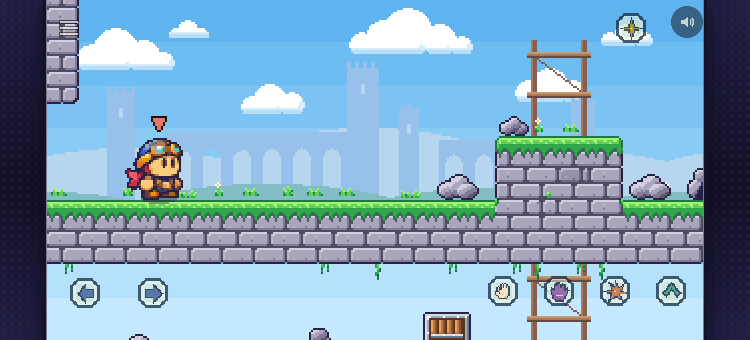
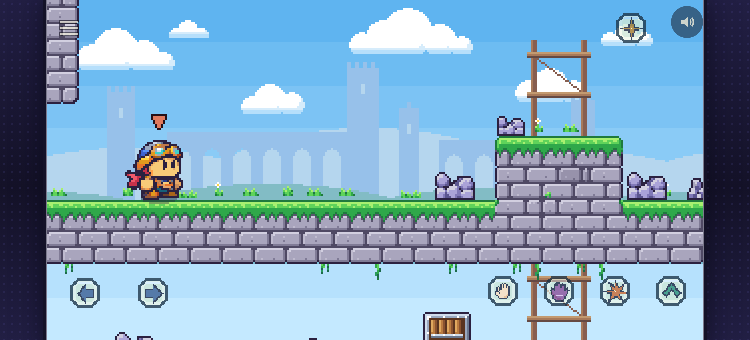
Step 8 look round 3, props: hits and dust from P03's VFX atlas; the camp's fire and flag and the quarry's rocks from P07/P08
The owner: "everything to utilized the approved assets in the drive". fx-hit (the P03 starburst)
and fx-dust (P03 dust puffs); the camp's fire is P08 biome's brazier, its flag P07 platformer's star
banner; the quarry's rock piles P07 platformer's boulder heap. What no sheet covers (fx-clang, the
moods, tents, palisade, rack, scaffolds, tall windows and curtains) is listed with reasons in
tools/art/props/README.md for the Drive's missing-assets list.

Ran: make.py, selfcheck.py (0), npm run build, npm run check: green. Looked at the camp and
quarry-depot in the real game (after-camp-*, after-quarry-depot-* updated); fx sheet at 4x.
Not run: e2e (data only). Measure row: none. Undo by reverting the commit.

Claude-Session: https://claude.ai/code/session_017WiGzJxBqVvizcghgHk5NG

diff --git a/tools/art/props/drive.py b/tools/art/props/drive.py
@@ -196,3 +196,62 @@ def alert_pip(on):
             if c[3]:
                 out.putpixel((x, y), c if c[:3] == INK[:3] else mix(c, col('night', 2), 0.65))
     return out
+
+
+# ---- P03 pixel-art-vfx-and-pickup-atlas ('vfx'): hits, dust, alert rays, the '!' and '?' bubbles
+VFXR = ramps('gold', 'orange', 'red', 'metal', 'skin', 'stone', 'earth', 'purple')
+
+
+def _cuts(boxes, w, h, pal=VFXR, align='center', **kw):
+    return _strip([grab('vfx', b, 0, pal, size=(w, h), **kw) for b in boxes], w, h, align)
+
+
+def fx_hit():
+    """32 x 32 x 5: the P03 starburst growing to full, then breaking into sparks (row 1)."""
+    boxes = [(440, 50, 528, 132), (520, 42, 625, 138), (618, 42, 722, 140), (618, 42, 722, 140), (40, 70, 100, 130)]
+    sizes = [(20, 20), (28, 28), (30, 30), (20, 20), (12, 12)]
+    return _strip([grab('vfx', b, 0, VFXR, size=s) for b, s in zip(boxes, sizes)], 32, 32)
+
+
+def fx_dust():
+    """24 x 24 x 5: the P03 dust puffs (row 4), growing then thinning."""
+    boxes = [(28, 535, 92, 590), (95, 515, 172, 592), (168, 500, 272, 594), (268, 508, 362, 592), (268, 508, 362, 592)]
+    sizes = [(10, 9), (16, 15), (22, 18), (20, 16), (14, 11)]
+    return _strip([grab('vfx', b, 0, VFXR, size=s, largest=False) for b, s in zip(boxes, sizes)], 24, 24, 'bottom')
+
+
+def fx_clang():
+    """32 x 20 x 3: the P03 alert ray fans (row 5), gold, gold, red: rays fanning up over the ringing bell."""
+    boxes = [(52, 638, 152, 722), (182, 632, 282, 722), (328, 628, 432, 722)]
+    return _cuts(boxes, 26, 18, align='bottom')
+
+
+def mood(which):
+    """12 x 12 x 2: the P03 '?' (mood 2) or '!' (mood 3) bubble, a white bubble so no hat or plume swallows it;
+    the second frame is the same bubble a pixel higher (a bob)."""
+    box = (768, 642, 858, 724) if which == 2 else (636, 642, 728, 724)
+    b = grab('vfx', box, 0, ramps('metal', 'red', 'purple', 'blue', 'cloud'), size=(11, 11))
+    a = new(12, 12)
+    paste(a, b, 0, 1)
+    c = new(12, 12)
+    paste(c, b, 0, 0)
+    out = new(24, 12)
+    out.paste(a, (0, 0))
+    out.paste(c, (12, 0))
+    return out
+
+
+# ---- the camp and the quarry: what the plates do show
+def camp_fire():
+    """P08 chibi biome atlas, the lava band: a fire in an iron brazier (no plate has a campfire)."""
+    return grab('biome', (850, 555, 935, 635), 0.26, ramps('orange', 'gold', 'red', 'night', 'stone'))
+
+
+def camp_flag():
+    """P07 platformer tileset: the star banner on its pole."""
+    return grab('platformer', (722, 852, 798, 962), 0.4, ramps('wood', 'gold', 'red', 'stone'))
+
+
+def rocks(big=True):
+    """P07 platformer tileset: the grey boulder heap, and the small stones beside it."""
+    return grab('platformer', (875, 168, 1002, 265), 0.17 if big else 0.12, ramps('stone', 'castle'))

diff --git a/tools/art/props/make.py b/tools/art/props/make.py
@@ -114,14 +114,14 @@ def looks_sheets():
     # ---- fx
     # round 2: hits you feel (handoff-prompts/look2-props.md, section 3.1)
     s = Sheet(160)
-    s.add('fx-hit', r2.fx_hit(), frames=5, fps=18)
+    s.add('fx-hit', dv.fx_hit(), frames=5, fps=18)  # P03 vfx atlas
     s.newrow()
     s.add('fx-slash', r2.fx_slash(), frames=5, fps=20)
     s.newrow()
     s.add('fx-swing-grappler', r2.fx_swing_grappler(), frames=3, fps=16)
     s.add('fx-land', lq.fx_land(), frames=4, fps=15)
     s.newrow()
-    s.add('fx-dust', r2.fx_dust(), frames=5, fps=15)
+    s.add('fx-dust', dv.fx_dust(), frames=5, fps=15)  # P03 vfx atlas
     s.newrow()
     # round 3: a tumble, a dizzy landing, a ringing bell
     s.add('fx-speed', dv.fx_speed(), frames=3, fps=15); s.add('fx-dizzy', dv.fx_dizzy(), frames=4, fps=8)  # P05 brawl
@@ -220,12 +220,12 @@ def decor_sheets():
     s.add('glow-22', r3.glow(22)); s.add('glow-14', r3.glow(14))
     sheets['tavern'] = s
     s = Sheet(256)
-    s.add('tent', r3.tent()); s.add('tent-blue', r3.tent(30, 26, 'blue')); s.add('flag', r3.flagpole())
-    s.add('rack', r3.weapon_rack()); s.add('fire', r3.campfire()); s.add('crate', r3.crate())
+    s.add('tent', r3.tent()); s.add('tent-blue', r3.tent(30, 26, 'blue')); s.add('flag', dv.camp_flag())  # flag: P07
+    s.add('rack', r3.weapon_rack()); s.add('fire', dv.camp_fire()); s.add('crate', r3.crate())  # fire: P08 biome brazier
     s.add('palisade', r3.palisade()); s.add('glow-20', r3.glow(20))
     sheets['camp'] = s
     s = Sheet(160)
-    s.add('rocks', r3.rock_pile()); s.add('rocks-small', r3.rock_pile(14, 9, 1)); s.add('scaffold', r3.scaffold())
+    s.add('rocks', dv.rocks()); s.add('rocks-small', dv.rocks(False)); s.add('scaffold', r3.scaffold())  # rocks: P07 platformer boulders
     s.add('lantern-hung', r3.hang(c['lantern'], 32 - c['lantern'].height)); s.add('glow-14', r3.glow(14))
     sheets['quarry'] = s
     return sheets

diff --git a/tools/art/props/place.py b/tools/art/props/place.py
@@ -13,7 +13,7 @@ from sizes import ROOT, rooms as load_rooms, rect
 T = 16
 
 # round 3: where the light is on each lit piece, from its bottom-left: (glow radius, x, y up from the bottom)
-GLOW3 = {'chandelier-hung': (22, 13, 8), 'lantern-hung': (14, 5, 6), 'fire': (20, 11, 10)}
+GLOW3 = {'chandelier-hung': (22, 13, 8), 'lantern-hung': (14, 5, 6), 'fire': (20, 9, 13)}
 
 
 class Room:
@@ -276,7 +276,7 @@ def outpost(R):
     for tx in range(9, R.w - 2):
         R.add('camp', 'palisade', tx, 10, layer='far', support='wall')
     R.add('camp', 'tent', 10, 10, dx=4)
-    R.add('camp', 'flag', 14, 10, dx=4)
+    R.add('camp', 'flag', 14, 10, dx=-6)
     R.add('camp', 'rack', 15, 10, dx=6)
     R.add('camp', 'fire', 22, 10, dx=4)
     R.add('camp', 'crate', 30, 10)

diff --git a/tools/art/props/srcimport.py b/tools/art/props/srcimport.py
@@ -36,6 +36,8 @@ SHEETS = {
     'brawl': 'p05-hud-powers-cantina-brawl-and-secrets-visual-source-sheets/p05-brawl-hit-ko-respawn-source.png',
     'ui': 'p07-first-playable-npc-enemies-mechanisms-terrain-hud-source/irreverents-pixel-ui-atlas.png',
     'vibrant': 'p07-first-playable-npc-enemies-mechanisms-terrain-hud-source/vibrant-platformer-interactables-sprite-sheet.png',
+    'biome': 'p08-additional-townsfolk-enemies-building-blocks-biomes-source/chibi-pixel-biome-tileset-atlas.png',
+    'platformer': 'p07-first-playable-npc-enemies-mechanisms-terrain-hud-source/pixel-art-platformer-tileset-atlas.png',
     'fantasy': 'p08-additional-townsfolk-enemies-building-blocks-biomes-source/colorful-retro-fantasy-tileset-atlas.png',
 }
 _cache = {}

diff --git a/tools/art/props/README.md b/tools/art/props/README.md
@@ -131,14 +131,22 @@ swoosh; the red and the blue skull badges); `alert-pip`/`-off` from the P07 UI a
 the same cut, dimmed). `srcimport.grab(key=...)` now keys out only ground connected to the crop's edge, so a
 white inside a piece stays.
 
+**Drive-first, step 3.** `fx-hit` and `fx-dust` from the P03 vfx atlas (the starburst; the dust puffs); the
+camp's fire is P08 biome's brazier, its flag P07 platformer's star banner; the quarry's rock piles are P07
+platformer's boulder heap at two sizes.
+
 **No approved source found (for the Drive's missing-assets list):**
-- `fx-clang` (clang lines beside a ringing bell) - drawn here.
-- `mood-2`, `mood-3` (marks over a head, bold enough for any hat) - drawn here; P07's mood heads are whole faces.
-- `bell-gauge`, `bark-edge`, `hud-plate` - drawn here in the P07 UI atlas's frame style, not cut from it.
-- the camp: tents, palisade, weapons rack, campfire, the camp's flag - drawn here (no tent or palisade plate).
-- the quarry: rock piles and scaffolds - drawn here (P03 grassy ruins' rock piles sit on an opaque ground; next).
-- windows, the stained glass, curtain hides (`hide-1x2`, `hide-2x2`), cracks, `away-dots`, `bark`, `ribbon`,
-  `player-mark`, shadows, `fx-land` - round 1-2 drawings, not yet checked against the plates.
+- `fx-clang`: P03's alert ray fans fill in solid at 32x20; drawn here.
+- `mood-2`, `mood-3`: P03's "?" and "!" bubbles lose their glyph at 12x12; drawn here.
+- `bell-gauge`, `bark-edge`, `hud-plate`: drawn here in the P07 UI atlas's frame style, not cut from it.
+- the camp's tents, palisade, weapons rack and crates: no plate shows a tent, a wooden palisade or a weapons rack
+  (crates are the cast lane's bodies; these are decoration).
+- the quarry's scaffolds: no plate shows one.
+- `window-1x3`, `window-broken-1x3`, the stained glass, curtain hides (`hide-1x2`, `hide-2x2`): P07 has arched and
+  stained windows and P04 tavern curtains, but all about square: they would be stretched 2-3x into a 1x3 or 1x2
+  part. A tall window and a tall curtain are wanted.
+- cracks, `away-dots`, `bark`, `ribbon`, `player-mark`, shadows, `fx-land`, `fx-slash`, `fx-swing-grappler`:
+  round 1-2 drawings or P01 cuts, not yet checked against the plates.
 
 ## Deviations from the contract
 
